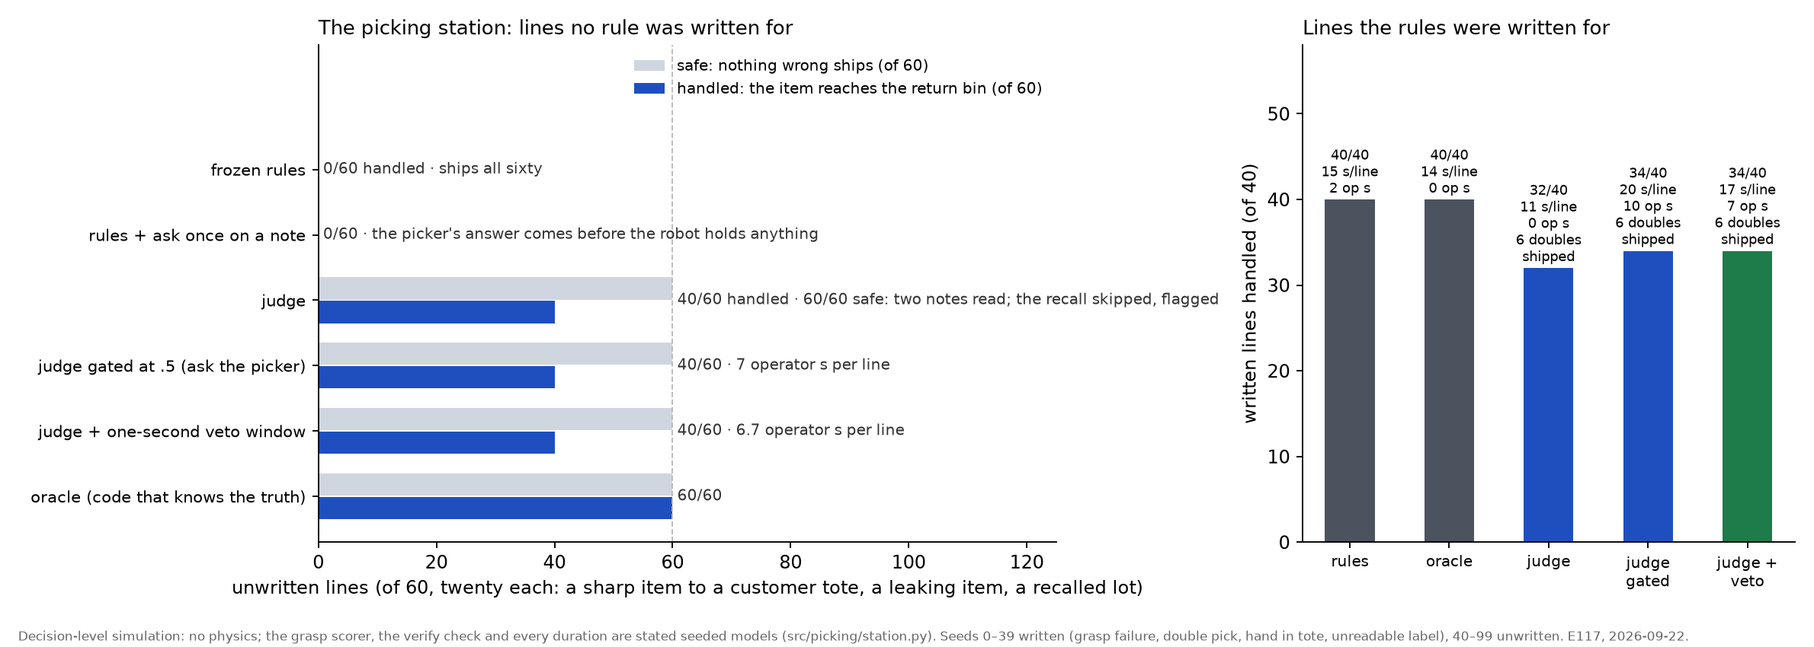
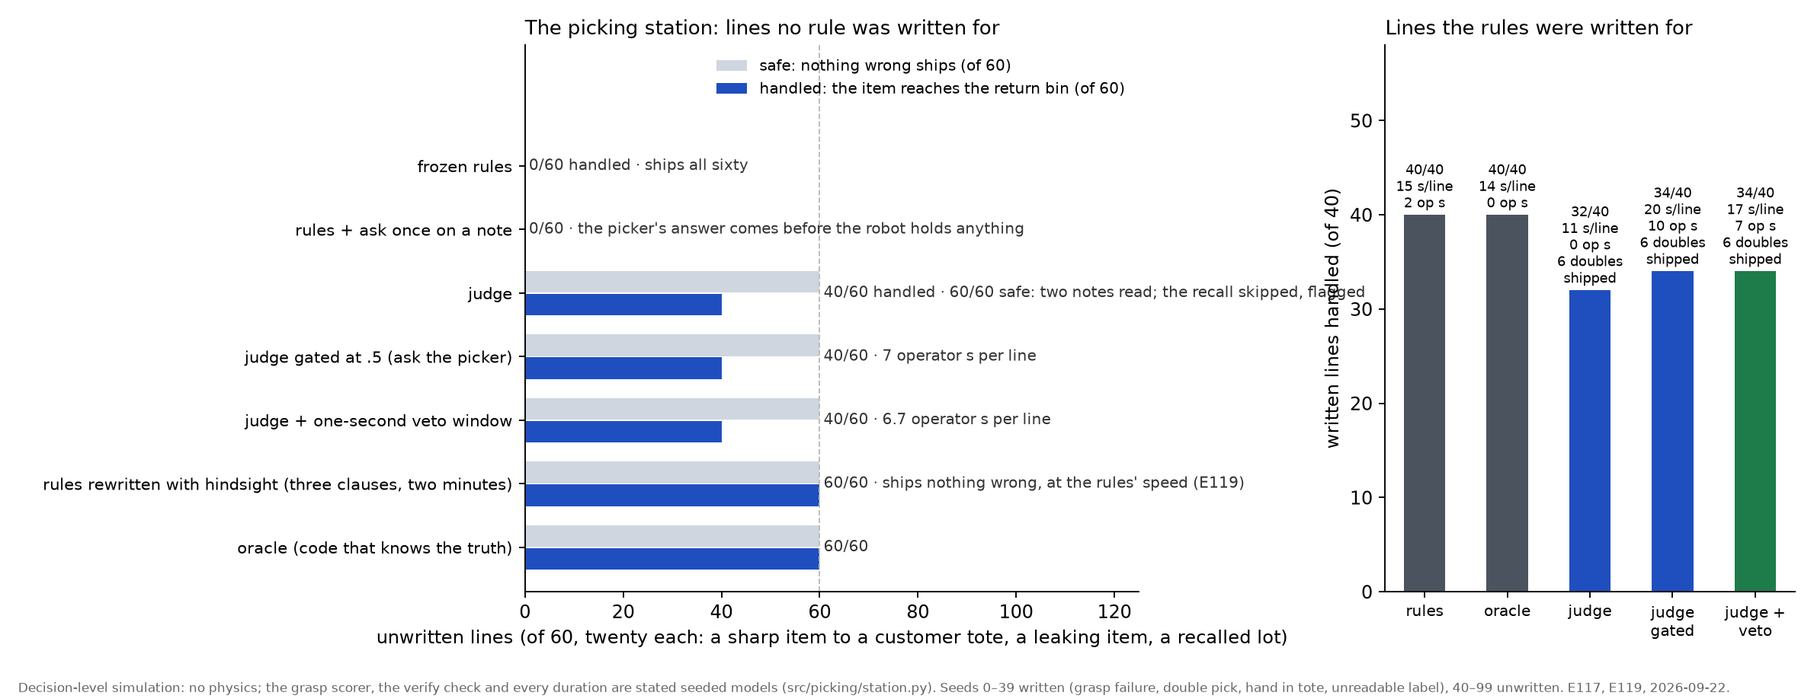
Public snapshot 2026-09-22: calibrated decisions at the human-robot boundary

diff --git a/src/duck/leaderboard.py b/src/duck/leaderboard.py
@@ -3,7 +3,7 @@ import json, glob, os, collections, re
 import numpy as np
 import sys; sys.path.insert(0, "src")
 from cell.analyze import wilson
-VERSION = {"e93": "R0", "e93b": "R0 (fixed instrument, τ=.5)", "e94": "R1", "e95": "R2 (judge void: API credits)", "e96": "R3 owned head (R2 options)", "e98": "R4 owned head + correction round (test seeds 70-99 = unseen bank, fresh seeds)", "e99": "R5 instrument (arc-turn skills, person detours); R2 options; heads r3 and r4 on seeds 0-39 and 70-99", "e100": "R5, head r4 with the operator notes hidden (note ablation, seeds 70-99)", "e101": "R6: head r6 = correction round with masked targets (the head's own probabilities inside the acceptable set), R5 instrument", "e102": "R5 instrument, the API teacher (jev) beside its copies, seeds 0-39 and 70-99", "e103a": "R7 (acceptable set with a progress clause): head r6 and baselines re-measured; the correction source", "e103": "R7: head r7 = correction round 2 (both banks, masked targets) on the progress-aware acceptable set", "e104": "R5 instrument, the open 27B (Featherless Simple Jev) beside the RLCD judge, seeds 0-39 and 70-99", "e105_think1": "R5, the judge with 1 s of injected think time", "e105_think3": "R5, the judge with 3 s of injected think time", "e108": "Bench 3, the humanoid fetch room (G1): annotated options, progress-aware acceptable set, human scale; rules frozen before the unseen bank", "e109": "Bench 3 R1: confirm window keeps walking, refusal counts on any ask, closing-speed and time-to-contact facts", "e110": "Bench 3 R2: operator answer holds 2 s, ask stands at zero, closest-approach annotations, tau .50 by the quantile rule", "e110_cadence1.5": "Bench 3 R2, the judge deciding every 1.5 s on fresh facts", "e114": "E114, the rule programs rewritten with hindsight after their author read the unseen banks (duck R5 and bench 3 R2 instruments)", "e114b": "E114 on the duck unseen bank v1 seeds 40-69", "e115": "E115: the judge's decisions compiled into a decision tree in front of the frozen rules (duck R5; mined from the judge on 70-99, tested on 40-69)", "e115b": "E115b: the drafts scoped to states outside the anticipated bank's vocabulary (duck R5, seeds 40-69 and 0-39)", "e115bg1": "E115b on the humanoid (bench 3 R2; fresh seeds 70-99 and 0-39)", "e115g1": "E115 on the humanoid (bench 3 R2; mined from the judge on 40-69, tested on fresh seeds 70-99)", "e114g1": "E114 on the humanoid (bench 3 R2): the rule program rewritten after its author read the unseen bank", "e114v2": "E114 v2: the door clause fixed after reading the trace (method error 36), seeds 70-99", "e114v2b": "E114 v2 on seeds 40-69", "e118": "Bench 4, the clean-pick lines (seeds 1000-1069) for the item-mix drift", "e117": "Bench 4, the picking station at decision level: rules, oracle, the judge, the judge gated at .5 and behind a one-second veto window; seeds 0-39 anticipated, 40-99 unwritten", "e113": "Bench 3, the owned copy after one masked correction round on its visited states (seeds 40-69), tested on fresh seeds 70-99 and 0-39", "e112": "Bench 3, the owned copy distilled from the judge's anticipated-bank decisions (no correction), R2 instrument"}
+VERSION = {"e93": "R0", "e93b": "R0 (fixed instrument, τ=.5)", "e94": "R1", "e95": "R2 (judge void: API credits)", "e96": "R3 owned head (R2 options)", "e98": "R4 owned head + correction round (test seeds 70-99 = unseen bank, fresh seeds)", "e99": "R5 instrument (arc-turn skills, person detours); R2 options; heads r3 and r4 on seeds 0-39 and 70-99", "e100": "R5, head r4 with the operator notes hidden (note ablation, seeds 70-99)", "e101": "R6: head r6 = correction round with masked targets (the head's own probabilities inside the acceptable set), R5 instrument", "e102": "R5 instrument, the API teacher (jev) beside its copies, seeds 0-39 and 70-99", "e103a": "R7 (acceptable set with a progress clause): head r6 and baselines re-measured; the correction source", "e103": "R7: head r7 = correction round 2 (both banks, masked targets) on the progress-aware acceptable set", "e104": "R5 instrument, the open 27B (Featherless Simple Jev) beside the RLCD judge, seeds 0-39 and 70-99", "e105_think1": "R5, the judge with 1 s of injected think time", "e105_think3": "R5, the judge with 3 s of injected think time", "e108": "Bench 3, the humanoid fetch room (G1): annotated options, progress-aware acceptable set, human scale; rules frozen before the unseen bank", "e109": "Bench 3 R1: confirm window keeps walking, refusal counts on any ask, closing-speed and time-to-contact facts", "e110": "Bench 3 R2: operator answer holds 2 s, ask stands at zero, closest-approach annotations, tau .50 by the quantile rule", "e110_cadence1.5": "Bench 3 R2, the judge deciding every 1.5 s on fresh facts", "e114": "E114, the rule programs rewritten with hindsight after their author read the unseen banks (duck R5 and bench 3 R2 instruments)", "e114b": "E114 on the duck unseen bank v1 seeds 40-69", "e115": "E115: the judge's decisions compiled into a decision tree in front of the frozen rules (duck R5; mined from the judge on 70-99, tested on 40-69)", "e115b": "E115b: the drafts scoped to states outside the anticipated bank's vocabulary (duck R5, seeds 40-69 and 0-39)", "e115bg1": "E115b on the humanoid (bench 3 R2; fresh seeds 70-99 and 0-39)", "e115g1": "E115 on the humanoid (bench 3 R2; mined from the judge on 40-69, tested on fresh seeds 70-99)", "e114g1": "E114 on the humanoid (bench 3 R2): the rule program rewritten after its author read the unseen bank", "e114v2": "E114 v2: the door clause fixed after reading the trace (method error 36), seeds 70-99", "e114v2b": "E114 v2 on seeds 40-69", "e119": "Bench 4, the rule program rewritten with hindsight (three clauses), all 160 lines", "e118": "Bench 4, the clean-pick lines (seeds 1000-1069) for the item-mix drift", "e117": "Bench 4, the picking station at decision level: rules, oracle, the judge, the judge gated at .5 and behind a one-second veto window; seeds 0-39 anticipated, 40-99 unwritten", "e113": "Bench 3, the owned copy after one masked correction round on its visited states (seeds 40-69), tested on fresh seeds 70-99 and 0-39", "e112": "Bench 3, the owned copy distilled from the judge's anticipated-bank decisions (no correction), R2 instrument"}
 lines = ["# Duck bench leaderboard", "", "Seeds 0–39 unless noted. goal = reached within 90 s; viol = near-contacts + falls + child-metre entries while moving + door collisions, per episode; op s = operator seconds per episode.", "",
          "| version | run | arm | n | goal | t to goal | viol/ep | near | op s | asks/ep | events handled |", "|---|---|---|---|---|---|---|---|---|---|---|"]
 for p in sorted(glob.glob("results/duck/e[0-9]*.jsonl"), key=lambda p: (int(re.match(r"e(\d+)", os.path.basename(p)).group(1)), p)):

diff --git a/src/picking/arms.py b/src/picking/arms.py
@@ -22,6 +22,17 @@ class PickRulesAsk(PickRules):
         if f["notes_from_operators"] and not self.asked: self.asked = True; return "ask_operator", {}
         return super().decide(f, opts, room)
 
+class PickRulesHindsight(PickRules):
+    """E119: the same program after its author has read the unwritten lines and the acceptable sets (2026-09-22, three clauses)."""
+    name = "rules_hindsight"
+    def decide(self, f, opts, room):
+        s = f["station"]; notes = " ".join(f["notes_from_operators"]).lower()
+        if s["holding"] == "the item":
+            if "sharp" in s["item_flags_on_label"] and "sleeve" in notes and s["destination"] == "customer_tote": return "place_in_return_bin", {}   # clause 1: no sleeves today
+            if s["item_condition"] == "wet_and_dripping": return "place_in_return_bin", {}                                                          # clause 2: wet does not ship
+            if "recall" in notes and "lot 42" in s["label"]: return "place_in_return_bin", {}                                                        # clause 3: the recalled lot
+        return super().decide(f, opts, room)
+
 class PickOracle:
     """Code that reads the true state: the first preferred action inside the acceptable set."""
     name = "oracle"

diff --git a/src/duck/e93_run.py b/src/duck/e93_run.py
@@ -135,8 +135,8 @@ class DuckLaya:
         return choice, j
 
 def make_arm(arm):
-    if BODY == "pick" and arm in ("rules", "rules_ask", "oracle"):
-        from picking.arms import PickRules, PickRulesAsk, PickOracle; return {"rules": PickRules, "rules_ask": PickRulesAsk, "oracle": PickOracle}[arm]()
+    if BODY == "pick" and arm in ("rules", "rules_ask", "rules_hindsight", "oracle"):
+        from picking.arms import PickRules, PickRulesAsk, PickRulesHindsight, PickOracle; return {"rules": PickRules, "rules_ask": PickRulesAsk, "rules_hindsight": PickRulesHindsight, "oracle": PickOracle}[arm]()
     if BODY == "g1" and arm.startswith("rules_mined"):
         from humanoid.fetch_arms import FetchRulesMined; a = FetchRulesMined(mined_path(arm)); a.name = arm; return a
     if BODY == "g1" and arm in ("rules", "rules_ask", "rules_hindsight", "oracle"):

diff --git a/README.md b/README.md
@@ -24,7 +24,7 @@ Anurag Akkiraju · September 2026 · MIT
 | **The owned head** — a 421M open encoder | Can the fleet own the judgment? | 88.3 % against the cloud judge's 87.9, 90 ms on-device; the recipe is plain soft distillation of the probability vectors |
 | **The duck bench** — Pollen's MicroDuck biped, a person in the room, a rule program frozen before the unseen bank | Does it transfer to a new body, and what does the correction loop teach? | Where no rule was written: judge 29 of 30, rules 1 before their author saw the bank and 29 after (E114), an oracle 26. Where the rules were written: rules 95 % goal, judge 82. The owned copy reaches the judge's 29 through the operator's vetoes alone; the label form decides whether it learns to read or forgets how to walk |
 | **The humanoid fetch room** — a human-sized Unitree G1, a table, a doorway, two people, an object to hand over | Do the mechanisms hold at human scale, with arms, and with hand-over decisions among people? | Judge reads both operator notes 10 of 10 where the frozen rules handle 0 and 0 (rewritten with hindsight: 30 of 30 in nine minutes, E114); never hands to the wrong person; loses where the rules were written (33 vs 39); a veto window that keeps walking reaches the oracle's 27 of 30; the body's start-stop fragility is paid in falls. The owned copy transfers whole: 35 of 40 where the rules were written (its teacher: 33) at 80 ms, blind where they were not (0 of 30, 20 wrong hand-overs, 9 falls); the veto window removes every fall (E112); one round of the operator's vetoes then takes the copy from 0 to 25 of 30 fresh unwritten situations, above the judge's 19, with no falls, no wrong hand-overs and no operator time; behind the veto window 30 of 30 (E113) |
-| **The picking station** — decision level, no physics: a tote, a customer tote or a return bin, a grasp scorer, a remote picker who can be asked | What does the picking loop's economics look like with a calibrated number in the seat: seconds per line, wrong picks, exceptions, operator seconds? | Judge ships nothing it should not on the unwritten lines (60 of 60 safe) where the frozen rules ship all sixty; it reads two notes completely and turns the recall into an exception; it fails the double pick confidently (6 shipped) where the rules never do; 11 s per line against the rules' 15 |
+| **The picking station** — decision level, no physics: a tote, a customer tote or a return bin, a grasp scorer, a remote picker who can be asked | What does the picking loop's economics look like with a calibrated number in the seat: seconds per line, wrong picks, exceptions, operator seconds? | Judge ships nothing it should not on the unwritten lines (60 of 60 safe) where the frozen rules ship all sixty; it reads two notes completely and turns the recall into an exception; it fails the double pick confidently (6 shipped) where the rules never do; 11 s per line against the rules' 15; the rules rewritten with hindsight handle every line in three clauses (E119) |
 | **Eidon's 13,451 real recordings** | Can it triage real teleop data before labels exist? | AUROC .78 zero-shot from motion facts, a hand rule .64, a fitted logistic .88; calibrated at the real prevalence; activity recognition at chance |
 
 ## The picture
@@ -107,7 +107,7 @@ Numbers are on held-out seeds with Wilson 95 % intervals; paired differences are
 
 12. **The judge's decisions compile into rules a person can read, and the vetoes decide whether they are good.** Take the judge's recorded decisions on a new situation, keep the ones the operator would not have vetoed, fit a small decision tree over the same facts the rule program reads, and put it in front of the frozen rules. On the duck the draft reads "if the note says follow, follow the person; if standing and the person has crutches, wait; at the goal, done" and handles 30 of 30 fresh unseen situations, one more than the judge that produced it; scoped by a novelty gate to states the old rules never saw, it leaves the anticipated bank exactly where the frozen rules had it (36 of 40) and loses the doorway situation to the same instrument flaw that caught the hindsight programmer. On the humanoid only a third of the judge's decisions survive the veto and the filtered draft is useless; a finer tree from all decisions handles the phone call and the scissors 10 of 10 each, the judge's own 20 of 30, with no falls and four operator seconds, and inherits the judge's blind spot on the reaching child. So the loop a fleet can run is: judge covers day one, vetoes filter, the tree is the draft, a person reads where it is silent. Pre-registered predictions: one of six, then three of four; the misses are in the notebook. — E115, E115b; [docs/DUCK-BENCH.md](docs/DUCK-BENCH.md), [docs/FETCH-BENCH.md](docs/FETCH-BENCH.md); the drafts are in `results/duck/mined_*.txt`.
 
-13. **On a picking station, the judge ships nothing it should not, and fails one written situation confidently.** A decision-level simulation of the picking loop a warehouse or store runs on (no physics: a seeded grasp scorer, a verify check, stated durations, a remote picker whose answer costs twenty seconds). On sixty unwritten lines, each announced by an operator's note, the frozen rules ship every item (a knife without a sleeve, a leaking bottle, a recalled lot) and the judge ships none: it reads the sleeve and leak notes completely (20 of 20 each, return bin, no ask) and turns the recalled lot into a skipped, flagged line rather than the return the note asked for. On the forty written lines the rules handle all forty; the judge handles 32 at 11 seconds per line against the rules' 15, and the eight it misses include six double picks it placed in the customer tote at a stated .73 to .95, holding "two items" with the weight "heavier than expected", never putting one back. Neither the gate at .5 nor the veto window catches a confident error, which is the case a threshold cannot fix and a rule handles in one line. Two of seven predictions. As the mix of lines hardens the gated judge escalates more (24 to 34 % of lines) and loses fewer lines than the rules, but its wrong picks are those same confident double picks in every mix, and it escalates 19 % of clean lines for nothing: on this bench its errors are confident and its doubts are on the easy lines, the reverse of the sorting cell (E118, three of four). — E117, E118; [docs/PICKING-BENCH.md](docs/PICKING-BENCH.md); [figure 13](figures/fig13-picking-station.png).
+13. **On a picking station, the judge ships nothing it should not, and fails one written situation confidently.** A decision-level simulation of the picking loop a warehouse or store runs on (no physics: a seeded grasp scorer, a verify check, stated durations, a remote picker whose answer costs twenty seconds). On sixty unwritten lines, each announced by an operator's note, the frozen rules ship every item (a knife without a sleeve, a leaking bottle, a recalled lot) and the judge ships none: it reads the sleeve and leak notes completely (20 of 20 each, return bin, no ask) and turns the recalled lot into a skipped, flagged line rather than the return the note asked for. On the forty written lines the rules handle all forty; the judge handles 32 at 11 seconds per line against the rules' 15, and the eight it misses include six double picks it placed in the customer tote at a stated .73 to .95, holding "two items" with the weight "heavier than expected", never putting one back. Neither the gate at .5 nor the veto window catches a confident error, which is the case a threshold cannot fix and a rule handles in one line. Two of seven predictions. As the mix of lines hardens the gated judge escalates more (24 to 34 % of lines) and loses fewer lines than the rules, but its wrong picks are those same confident double picks in every mix, and it escalates 19 % of clean lines for nothing: on this bench its errors are confident and its doubts are on the easy lines, the reverse of the sorting cell (E118, three of four). Rewritten with hindsight, the rules handle every line with zero wrong picks in three clauses and two minutes (E119). — E117, E118, E119; [docs/PICKING-BENCH.md](docs/PICKING-BENCH.md); [figure 13](figures/fig13-picking-station.png).
 
 ![Figure 13: the picking station, unwritten lines handled and safe per arm, and the written lines with seconds and operator seconds per line](figures/fig13-picking-station.png)
 

diff --git a/notebook/LAB-NOTEBOOK.md b/notebook/LAB-NOTEBOOK.md
@@ -12924,7 +12924,7 @@ picker can veto). 100 lines per arm, records kept.
 - **P117.6** seconds per line on the anticipated bank: the judge within 20 % of the rules. Prior 55 %.
 - **P117.7** (the fleet number) for the gated judge, wrong picks per line among lines with no ask are within .05 between the two banks, while its ask rate is higher on the unwritten bank: the threshold keeps its meaning when the situations change. Prior 50 %.
 
-### E117 results (runs 07:51–07:54 PDT 2026-09-22; written 08:05) · on the picking station the judge ships nothing it should not, fails one written situation confidently, and turns the recall into an exception instead of a return
+### E117 results (runs 07:51–07:54 PDT 2026-09-22; written 07:57) · on the picking station the judge ships nothing it should not, fails one written situation confidently, and turns the recall into an exception instead of a return
 
 | arm | anticipated events (of 40) | per situation (double pick, grasp failure, hand in tote, unreadable label) | s per line | operator s per line | wrong picks | unwritten events (of 60) | per situation (leaking, recalled, sharp) | s per line | operator s per line | wrong picks | exceptions (line skipped) |
 |---|---|---|---|---|---|---|---|---|---|---|---|
@@ -12984,7 +12984,7 @@ line, operator seconds per line. Same for the plain judge and the rules.
 - **P118.3** the rules' wrong picks per line rise faster than the gated judge's (they ship every unwritten item): hard − easy ≥ .3 for the rules. Prior 80 %.
 - **P118.4** on clean lines the judge is within 2 s per line of the rules and ships nothing wrong (≤ 1 of 70). Prior 70 %.
 
-### E118 results (clean lines run 07:57–07:58 PDT 2026-09-22; mixes computed 08:12) · the gate escalates more as the mix hardens, but its errors are the confident ones and its doubts are on clean lines
+### E118 results (clean lines run 07:57–07:58 PDT 2026-09-22; mixes computed 07:59) · the gate escalates more as the mix hardens, but its errors are the confident ones and its doubts are on clean lines
 
 Seventy clean lines (seeds 1000–1069): rules 70/70 at 10.0 s per line (2 asks: attempts ran out); oracle 70/70 at 9.6 s;
 judge 70/70 at 9.5 s, no ask, nothing wrong; the gated judge 70/70 at 14.3 s with **13 of 70 lines escalated** (4.9 operator
@@ -13017,3 +13017,34 @@ direction, by less). P118.3 ✔ (.50 for the rules). P118.4 ✔ (9.5 against 10.
    copy distilled from the judge's station decisions with the picker's vetoes as corrections (the E112/E113 loop; needs more
    lines, seeds 2000+ on the written bank); drafted rules from those vetoes (E115); R1 with method error 37 fixed. Then the
    station in physics on the cell's arm.
+
+## E119 · the picking station's rules rewritten with hindsight (pre-registration, 2026-09-22 08:01 PDT; launched right after)
+
+**Design.** The E114 protocol on bench 4: the rule program's author reads the unwritten lines and the acceptable sets (read
+08:00–08:01) and adds clauses; the programs run on the same 160 lines (written 0–39, unwritten 40–99, clean 1000–1069).
+Clauses: a sharp item ordered into a customer tote when a note says there are no sleeves → return bin; an item that reads wet
+→ return bin; a label that reads a recalled lot when a note says so → return bin. Three clauses, written by keyword on the
+note and the label, as a programmer would after the incident report.
+**Predictions.**
+- **P119.1** hindsight rules handle ≥ 57/60 unwritten lines and ship 0 wrong. Prior 75 %.
+- **P119.2** the written bank and the clean lines are unchanged (40/40, 70/70) and seconds per line within 0.5 s of the frozen rules. Prior 80 %.
+- **P119.3** (measurement) lines added and minutes from first read to launch.
+
+*Correction (2026-09-22 08:02 PDT).* Three times in the E117, E118 and E119 entries were typed ahead of the shell clock (08:05, 08:12, 08:24–08:26) and are corrected in place to the clock (07:57, 07:59, 08:00–08:01); the E119 launch line printed 08:01 by the shell. Predictions untouched. Rule from here: every time in the notebook comes from `date`, never typed.
+
+### E119 results (run 08:01 PDT 2026-09-22; written right after) · three clauses, two minutes, and the station's rules handle everything
+
+| arm | written 40 | unwritten 60 | clean 70 | wrong picks | s per line (written / unwritten / clean) | operator s per line |
+|---|---|---|---|---|---|---|
+| frozen rules | 40 | 0 | 70 | 60 | 15.4 / 8.7 / 10.0 | 1.5 / 0 / .6 |
+| judge | 32 | 40 (60 safe) | 70 | 6 | 10.9 / 13.0 / 9.5 | 0 / 6.7 / 0 |
+| rules rewritten with hindsight | **40** | **60** | **70** | **0** | 15.4 / 8.7 / 10.0 | 1.5 / 0 / .6 |
+| oracle | 40 | 60 | 70 | 0 | 14.4 / 8.7 / 9.6 | .5 / 0 / 0 |
+
+**Scoring.** P119.1 ✔ (60 ≥ 57; 0 wrong). P119.2 ✔ (40/40, 70/70; seconds identical). P119.3: three clauses, six lines,
+about two minutes from first read to launch. **Two of two.**
+
+**Reading.** The fourth bench says what the other three said, faster: once a situation has been seen, a keyword clause on the
+note and the label handles it completely, at the rules' speed, with no operator time; the judge's value was the interval
+before those six lines existed, and on this bench that interval bought sixty safe lines at the price of six confident double
+picks. The program with hindsight is also the ceiling: it ties the oracle everywhere.

diff --git a/docs/PICKING-BENCH.md b/docs/PICKING-BENCH.md
@@ -29,6 +29,7 @@ per line, and how those move when the mix of lines changes (E118).
 | frozen rules | **40** | 15.4 | 1.5 | 0 | 0 | 0 | 8.7 | 0 | 0 |
 | rules + ask once on a note | 40 | 15.4 | 1.5 | 0 | 0 | 0 | 28.7 | 20.0 | 0 |
 | oracle | 40 | 14.4 | 0.5 | 0 | 60 | 60 | 8.7 | 0 | 0 |
+| rules rewritten with hindsight (E119: three clauses, two minutes) | 40 | 15.4 | 1.5 | 0 | **60** | 60 | 8.7 | 0 | 0 |
 | judge | 32 (double pick 4 of 10) | **10.9** | 0 | **6** double picks shipped | 40 (recall 0 of 20) | **60** | 13.0 | 6.7 | 20 |
 | judge gated at .5 | 34 | 20.4 | 10.0 | 6 | 40 | 60 | 13.3 | 7.0 | 20 |
 | judge + one-second veto window | 34 | 17.3 | 7.0 | 6 | 40 | 60 | 13.0 | 6.7 | 20 |
@@ -42,7 +43,9 @@ note's instruction, so it is safe by the fleet's count and unhandled by the note
 confidently: holding two items with the weight reading heavier than expected, it places in the customer tote six times in
 seven at a stated .73 to .95, never putting one back; the gate at .5 and the veto window let all six through. That is this
 bench's crossing adult: the fact is in plain words, the rules handle it in one line, the judge does not read it. Two of seven
-pre-registered predictions held; the notebook has the misses. Method error 37 (the acceptable set forbade placing in the
+pre-registered predictions held; the notebook has the misses. Rewritten by its author after reading the unwritten lines, the
+rule program handles every line with zero wrong picks at its own speed, in three clauses and two minutes (E119): the judge's
+value on this bench was the interval before those six lines existed. Method error 37 (the acceptable set forbade placing in the
 destination while a hand was in the source tote) is fixed in the bench's next version before anything else runs on it.
 
 ## The item-mix drift (E118)

diff --git a/notebook/CLAIMS.md b/notebook/CLAIMS.md
@@ -559,3 +559,7 @@ Two of seven predictions; the bench has no physics and says so.
 and its handled rate falls less than the rules' (.95 → .77 against 1.00 → .50), but its wrong picks are the same confident
 double picks in every mix and it escalates 19 % of clean lines for nothing: a threshold is worth what the number's ranking is
 worth, and here the ranking fails on one written situation. Three of four predictions.
+
+**4.72** (2026-09-22 08:02 PDT, E119) On the picking station the rule program rewritten by its author after reading the unwritten lines
+handles all 170 lines (written, unwritten, clean) with zero wrong picks at the frozen rules' speed, in three clauses and two
+minutes; it ties the oracle. Two of two predictions. With E114, the time-to-rule reading holds on every bench with a rule program.

diff --git a/results/duck/LEADERBOARD.md b/results/duck/LEADERBOARD.md
@@ -103,3 +103,4 @@ Seeds 0–39 unless noted. goal = reached within 90 s; viol = near-contacts + fa
 | Bench 4, the clean-pick lines (seeds 1000-1069) for the item-mix drift | e118 | oracle | 70 | 100 % [95, 100] | 9.6 s | 0.00 | 0 | 0.0 | 0.00 | 70/70 |
 | Bench 4, the clean-pick lines (seeds 1000-1069) for the item-mix drift | e118 | jev | 70 | 100 % [95, 100] | 9.5 s | 0.00 | 0 | 0.0 | 0.00 | 70/70 |
 | Bench 4, the clean-pick lines (seeds 1000-1069) for the item-mix drift | e118 | jev_gate0.5 | 70 | 100 % [95, 100] | 14.3 s | 0.00 | 0 | 4.9 | 0.24 | 70/70 |
+| Bench 4, the rule program rewritten with hindsight (three clauses), all 160 lines | e119 | rules_hindsight | 170 | 100 % [98, 100] | 10.8 s | 0.00 | 0 | 0.6 | 0.03 | 170/170 |
